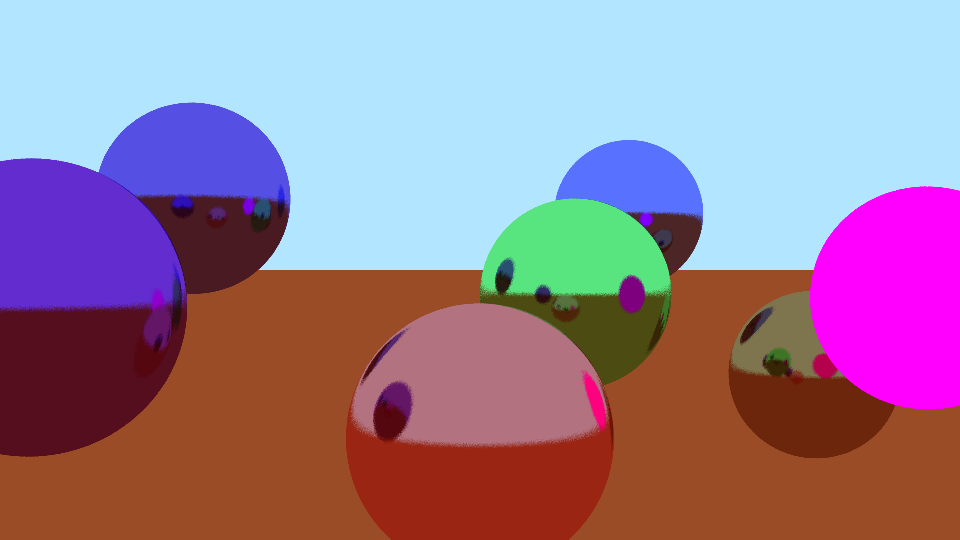
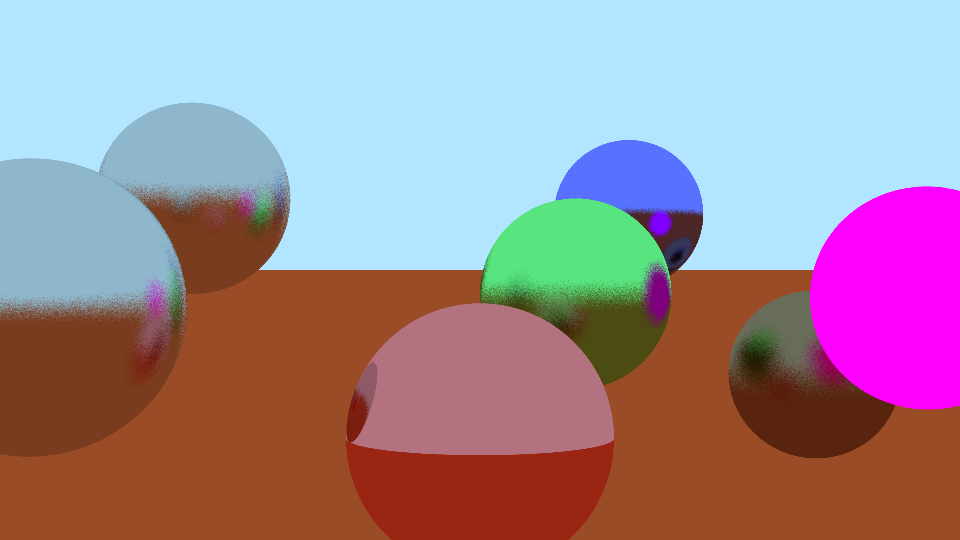
Adding basic materials

diff --git a/RayTracerLib/GPURenderer.cpp b/RayTracerLib/GPURenderer.cpp
@@ -227,22 +227,23 @@ VkResult GPURenderer::CreateHeadlessVulkanInstance(VkInstance & instance)
     createInfo.sType = VK_STRUCTURE_TYPE_INSTANCE_CREATE_INFO;
     createInfo.pApplicationInfo = &applicationInfo;
 
-#if ENABLE_SHADER_PRINTF
-    createInfo.enabledLayerCount = static_cast<uint32_t>(requiredInstanceLayers.size());
-    createInfo.ppEnabledLayerNames = requiredInstanceLayers.data();
-    createInfo.enabledExtensionCount = static_cast<uint32_t>(requiredInstanceExtensions.size());
-    createInfo.ppEnabledExtensionNames = requiredInstanceExtensions.data();
+    if (GPUDebugEnabled)
+    {
+        createInfo.enabledLayerCount = static_cast<uint32_t>(requiredInstanceLayers.size());
+        createInfo.ppEnabledLayerNames = requiredInstanceLayers.data();
+        createInfo.enabledExtensionCount = static_cast<uint32_t>(requiredInstanceExtensions.size());
+        createInfo.ppEnabledExtensionNames = requiredInstanceExtensions.data();
 
-    VkValidationFeatureEnableEXT enabled = VK_VALIDATION_FEATURE_ENABLE_DEBUG_PRINTF_EXT;
-    VkValidationFeaturesEXT features = {};
-    features.sType = VK_STRUCTURE_TYPE_VALIDATION_FEATURES_EXT;
-    features.disabledValidationFeatureCount = 0;
-    features.enabledValidationFeatureCount = 1;
-    features.pDisabledValidationFeatures = nullptr;
-    features.pEnabledValidationFeatures = &enabled;
+        VkValidationFeatureEnableEXT enabled = VK_VALIDATION_FEATURE_ENABLE_DEBUG_PRINTF_EXT;
+        VkValidationFeaturesEXT features = {};
+        features.sType = VK_STRUCTURE_TYPE_VALIDATION_FEATURES_EXT;
+        features.disabledValidationFeatureCount = 0;
+        features.enabledValidationFeatureCount = 1;
+        features.pDisabledValidationFeatures = nullptr;
+        features.pEnabledValidationFeatures = &enabled;
 
-    createInfo.pNext = &features;
-#endif
+        createInfo.pNext = &features;
+    }
 
     result =  vkCreateInstance(&createInfo, nullptr, &instance);
     return result;
@@ -321,7 +322,7 @@ VkResult GPURenderer::CreateDevice(VkPhysicalDevice physicalDevice, uint32_t que
     return vkCreateDevice(physicalDevice, &deviceCreateInfo, 0, &device);
 }
 
-bool GPURenderer::Render(const Camera& camera, unsigned int samples, const std::unique_ptr<IScene> &scene, std::unique_ptr<IImage> &out_image)
+void GPURenderer::Render(const Camera& camera, unsigned int samples, const std::unique_ptr<IScene> &scene, std::unique_ptr<IImage> &out_image)
 {
     auto time = std::chrono::high_resolution_clock::now();
     std::chrono::duration<double, std::milli> cpuTime;
@@ -335,21 +336,22 @@ do \
 
     if (!VerifyInstanceLayers())
     {
-        return false;
+        return;
     }
 
     if (!VerifyInstanceExtensions())
     {
-        return false;
+        return;
     }
 
     VkInstance instance = nullptr;
     EXIT_ON_BAD_RESULT(CreateHeadlessVulkanInstance(instance));
 
-#if ENABLE_SHADER_PRINTF
     VkDebugUtilsMessengerEXT debugMessenger = {};
-    EXIT_ON_BAD_RESULT(CreateDebugMessenger(instance, &debugMessenger));
-#endif
+    if (GPUDebugEnabled)
+    {
+        EXIT_ON_BAD_RESULT(CreateDebugMessenger(instance, &debugMessenger));
+    }
 
     PRINT_TIME("\t[SETUP]: Create headless vulkan instance");
 
@@ -359,7 +361,7 @@ do \
 
     if (0 == physicalDeviceCount)
     {
-        return false;
+        return;
     }
 
     PRINT_TIME("\t[SETUP]: Enumerate devices");
@@ -474,11 +476,10 @@ do \
     
     PRINT_TIME("\t[TEARDOWN]: Unmap memory");
 
-#if ENABLE_SHADER_PRINTF
-    DestroyDebugMessenger(instance, debugMessenger);
-#endif
-
-	return true;
+    if (GPUDebugEnabled)
+    {
+        DestroyDebugMessenger(instance, debugMessenger);
+    }
 }
 
 #undef EXIT_ON_BAD_RESULT

diff --git a/include/PresetScenes.h b/include/PresetScenes.h
@@ -4,6 +4,9 @@
 #include <Camera.h>
 #include <Scene.h>
 #include <Material.h>
+#include <EmissiveBSDF.h>
+#include <GlossyBSDF.h>
+#include <DiffuseBSDF.h>
 #include <Sphere.h>
 
 namespace RayTracer
@@ -28,23 +31,19 @@ namespace RayTracer
         // Build a scene to render
         Scene *scene = new Scene();
 
-        scene->AddMaterial(new Material(RandomColor(), RandomRoughness(0.0f, 0.3f), false));
-        scene->AddMaterial(new Material(RandomColor(), RandomRoughness(0.0f, 0.3f), false));
-
-        scene->AddMaterial(new Material(Color(1.0f, 0.5f, 0.5f, 1.0f), RandomRoughness(0.0f, 0.3f), false));
-        scene->AddMaterial(new Material(Color(0.5f, 1.0f, 0.5f, 1.0f), RandomRoughness(0.0f, 0.3f), false));
-        scene->AddMaterial(new Material(Color(0.5f, 0.5f, 1.0f, 1.0f), RandomRoughness(0.0f, 0.3f), false));
-
-        scene->AddMaterial(new Material(RandomColor(), RandomRoughness(0.0f, 0.3f), false));
-        scene->AddMaterial(new Material(Color(1.0f, 0.0f, 1.0f, 1.0f), 1.0f, true));
+        scene->AddMaterial(new GlossyBSDF(Color(0.8f, 0.8f, 0.8f, 1.0f), 0.2f));
+        scene->AddMaterial(new GlossyBSDF(Color(0.8f, 0.8f, 0.8f, 1.0f), 0.3f));
+        scene->AddMaterial(new DiffuseBSDF(Color(1.0f, 0.5f, 0.5f, 1.0f), RandomRoughness(0.0f, 0.3f)));
+        scene->AddMaterial(new DiffuseBSDF(Color(0.5f, 1.0f, 0.5f, 1.0f), RandomRoughness(0.0f, 0.3f)));
+        scene->AddMaterial(new DiffuseBSDF(Color(0.5f, 0.5f, 1.0f, 1.0f), RandomRoughness(0.0f, 0.3f)));
+        scene->AddMaterial(new DiffuseBSDF(RandomColor(), RandomRoughness(0.0f, 0.3f)));
+        scene->AddMaterial(new EmissiveBSDF(Color(1.0f, 0.0f, 1.0f, 1.0f)));
 
         scene->AddObject(new Sphere(Vector3<float>(  9,    0,    -3),   1.0f,   0));
         scene->AddObject(new Sphere(Vector3<float>( 14,    1,    -3),   1.0f,   1));
-
         scene->AddObject(new Sphere(Vector3<float>( 10,   -1,     0),   1.0f,   2));
         scene->AddObject(new Sphere(Vector3<float>( 14,    0,     1),   1.0f,   3));
         scene->AddObject(new Sphere(Vector3<float>( 18,    1,     2),   1.0f,   4));
-
         scene->AddObject(new Sphere(Vector3<float>( 16,   -1,     4),   1.0f,   5));
         scene->AddObject(new Sphere(Vector3<float>( 12,    0,     4),   1.0f,   6));
 
@@ -61,7 +60,7 @@ namespace RayTracer
 
         // Build a scene to render
         Scene *scene = new Scene(); 
-        scene->AddMaterial(new Material(Color(1.0f, 1.0f, 1.0f, 1.0f), 0.1f, false));
+        scene->AddMaterial(new DiffuseBSDF(Color(1.0f, 1.0f, 1.0f, 1.0f), 0.1f));
 
         for (float i = 0; i < sphere_array_count; i++)
         {

diff --git a/RayTracerLib/GlossyBSDF.cpp b/RayTracerLib/GlossyBSDF.cpp
@@ -1,0 +1,34 @@
+#include "GlossyBSDF.h"
+#include "Ray.h"
+
+using RayTracer::Color;
+using RayTracer::Vector3;
+
+const Color RayTracer::GlossyBSDF::SurfaceColor() const
+{
+	return color;
+}
+
+float RayTracer::GlossyBSDF::Roughness() const
+{
+	return roughness;
+}
+
+void RayTracer::GlossyBSDF::GetResultantRay(std::unique_ptr<IIntersection> &intersection,
+	const std::unique_ptr<IRay> &incoming_ray, std::unique_ptr<IRay> &outgoing_ray) const
+{
+	Vector3<float> in_direction = incoming_ray->Direction().Normalize();
+	Vector3<float> intersection_normal = intersection->Normal().Normalize();
+
+	Vector3<float> out_reflection = in_direction - intersection_normal * 2 * in_direction.Dot(intersection_normal);
+	Vector3<float> out_reflection_offset = out_reflection + (Vector3<float>::RandomInUnitSphere() * roughness);
+
+	if (out_reflection_offset.Dot(intersection_normal) <= 0)
+	{
+		outgoing_ray = std::make_unique<Ray>(intersection->Location(), out_reflection);
+	}
+	else
+	{
+		outgoing_ray = std::make_unique<Ray>(intersection->Location(), out_reflection_offset);
+	}
+}

diff --git a/RayTracer/main.cpp b/RayTracer/main.cpp
@@ -14,13 +14,9 @@
 #include <PresetScenes.h>
 
 using RayTracer::IScene;
-using RayTracer::Vector3;
 using RayTracer::Camera;
-using RayTracer::Scene;
 using RayTracer::CPURenderer;
 using RayTracer::GPURenderer;
-using RayTracer::Sphere;
-using RayTracer::Material;
 using RayTracer::ImageResolution;
 using RayTracer::IImage;
 using RayTracer::Color;
@@ -108,19 +104,6 @@ static void parse_command_line_arguments(int argc, char** argv, CommandLineArgum
     arguments.RenderCPU = render_cpu;
     arguments.RenderGPU = render_gpu;
     arguments.GPUDebugEnabled = gpu_debug;
-}
-
-static Color RandomColor()
-{
-    float random1 = (float)rand() / RAND_MAX;
-    float random2 = (float)rand() / RAND_MAX;
-    float random3 = (float)rand() / RAND_MAX;
-    return Color(random1, random2, random3, 1.0f);
-}
-
-static float RandomRoughness(float min, float max)
-{
-    return RayTracer::Lerp<float>(min, max, (float)rand() / RAND_MAX);
 }
 
 static bool write_png_file(const std::string &file_name, const std::vector<std::vector<png_byte>> &color_values)

diff --git a/RayTracerLib/CPURenderer.cpp b/RayTracerLib/CPURenderer.cpp
@@ -48,7 +48,7 @@ static void TraceRay(std::unique_ptr<IRay> &ray, const std::unique_ptr<IScene> &
 
 	/* Keep going while an intersection happens
 	* and the bounces is less than max bounce count */
-	do
+	while (nullptr != traced_ray)
 	{
 		at_least_one_intersected = false;
 		float min_depth = std::numeric_limits<float>::infinity();
@@ -97,11 +97,10 @@ static void TraceRay(std::unique_ptr<IRay> &ray, const std::unique_ptr<IScene> &
 			ray_color *= world->AmbientColor();
 			break;
 		}
-	} 
-	while (nullptr != traced_ray);
+	}
 }
 
-bool CPURenderer::Render(const Camera &camera, unsigned int samples, const std::unique_ptr<IScene> &scene, std::unique_ptr<IImage> &out_image)
+void CPURenderer::Render(const Camera &camera, unsigned int samples, const std::unique_ptr<IScene> &scene, std::unique_ptr<IImage> &out_image)
 {
 	auto time = std::chrono::high_resolution_clock::now();
 	std::chrono::duration<double, std::milli> cpuTime;
@@ -137,6 +136,4 @@ do \
 	}
 
 	PRINT_TIME("[RENDER TIME]");
-
-	return true;
 }

diff --git a/include/IMaterial.h b/include/IMaterial.h
@@ -1,6 +1,6 @@
 #pragma once
 
-#include "Vectors.h"
+#include "Vector3.h"
 #include "Color.h"
 #include "IIntersectable.h"
 
@@ -9,8 +9,8 @@ namespace RayTracer
 	class IMaterial
 	{
 	public:
-		virtual const Color SurfaceColor() const = 0;
-		virtual float Roughness() const = 0;
+		virtual const Color SurfaceColor() const = 0; // TODO: This should be part of GetResultantRay
+		virtual float Roughness() const = 0; // TODO: This is not applicable to all materials
 		virtual void GetResultantRay(std::unique_ptr<IIntersection> &intersection, const std::unique_ptr<IRay> &incoming_ray,
 			std::unique_ptr<IRay> &outgoing_ray) const = 0;
 	};

diff --git a/RayTracerLib/DiffuseBSDF.cpp b/RayTracerLib/DiffuseBSDF.cpp
@@ -1,0 +1,21 @@
+#include "DiffuseBSDF.h"
+#include "Ray.h"
+
+using RayTracer::Color;
+
+const Color RayTracer::DiffuseBSDF::SurfaceColor() const
+{
+	return color;
+}
+
+float RayTracer::DiffuseBSDF::Roughness() const
+{
+	return roughness;
+}
+
+void RayTracer::DiffuseBSDF::GetResultantRay(std::unique_ptr<IIntersection> &intersection,
+	const std::unique_ptr<IRay> &incoming_ray, std::unique_ptr<IRay> &outgoing_ray) const
+{
+	Vector3<float> out_direction = intersection->Normal().Normalize() + (Vector3<float>::RandomInUnitSphere() * roughness);
+	outgoing_ray = std::make_unique<Ray>(intersection->Location(), out_direction);
+}

diff --git a/include/GlossyBSDF.h b/include/GlossyBSDF.h
@@ -1,0 +1,22 @@
+#pragma once
+
+#include "IMaterial.h"
+#include "Color.h"
+
+namespace RayTracer
+{
+	class GlossyBSDF : public IMaterial
+	{
+	public:
+		GlossyBSDF(const Color &color, float roughness) : color(color), roughness(roughness) {}
+		// Inherited via IMaterial
+		virtual const Color SurfaceColor() const override;
+		virtual float Roughness() const override;
+		virtual void GetResultantRay(std::unique_ptr<IIntersection> &intersection,
+			const std::unique_ptr<IRay> &incoming_ray, std::unique_ptr<IRay> &outgoing_ray) const override;
+	private:
+		Color color;
+		float roughness;
+	};
+}
+

diff --git a/include/Vector3.h b/include/Vector3.h
@@ -91,6 +91,22 @@ namespace RayTracer
 			return Vector3<T>(x_lerp, y_lerp, z_lerp).Normalize();
 		}
 
+		// Based on https://raytracing.github.io/books/RayTracingInOneWeekend.html#diffusematerials/asimplediffusematerial
+		static Vector3<T> RandomInUnitSphere()
+		{
+			while (true)
+			{
+				T x = (T)rand() / RAND_MAX * 2 - 1;
+				T y = (T)rand() / RAND_MAX * 2 - 1;
+				T z = (T)rand() / RAND_MAX * 2 - 1;
+				Vector3<T> vec(x, y, z);
+				if (vec.MagnitudeSquared() < 1)
+				{
+					return vec;
+				}
+			}
+		}
+
 	private:
 		mutable bool CalculatedNormalized;
 		mutable T XNormalized;

diff --git a/include/DiffuseBSDF.h b/include/DiffuseBSDF.h
@@ -1,0 +1,21 @@
+#pragma once
+
+#include "IMaterial.h"
+
+namespace RayTracer
+{
+	class DiffuseBSDF : public IMaterial
+	{
+	public:
+		DiffuseBSDF(const Color &color, float roughness) : color(color), roughness(roughness) {}
+		// Inherited via IMaterial
+		virtual const Color SurfaceColor() const override;
+		virtual float Roughness() const override;
+		virtual void GetResultantRay(std::unique_ptr<IIntersection> &intersection,
+			const std::unique_ptr<IRay> &incoming_ray, std::unique_ptr<IRay> &outgoing_ray) const override;
+	private:
+		Color color;
+		float roughness;
+	};
+}
+

diff --git a/include/EmissiveBSDF.h b/include/EmissiveBSDF.h
@@ -1,0 +1,20 @@
+#pragma once
+
+#include "IMaterial.h"
+
+namespace RayTracer
+{
+	class EmissiveBSDF : public IMaterial
+	{
+	public:
+		EmissiveBSDF(const Color &color) : color(color) {}
+		// Inherited via IMaterial
+		virtual const Color SurfaceColor() const override;
+		virtual float Roughness() const override;
+		virtual void GetResultantRay(std::unique_ptr<IIntersection> &intersection,
+			const std::unique_ptr<IRay> &incoming_ray, std::unique_ptr<IRay> &outgoing_ray) const override;
+	private:
+		Color color;
+	};
+}
+

diff --git a/include/PrincipledBSDF.h b/include/PrincipledBSDF.h
@@ -1,0 +1,17 @@
+#pragma once
+
+#include "IMaterial.h"
+
+namespace RayTracer
+{
+	class PrincipledBSDF : public IMaterial
+	{
+	public:
+		// Inherited via IMaterial
+		virtual const Color SurfaceColor() const override;
+		virtual float Roughness() const override;
+		virtual void GetResultantRay(std::unique_ptr<IIntersection> &intersection, 
+			const std::unique_ptr<IRay> &incoming_ray, std::unique_ptr<IRay> &outgoing_ray) const override;
+	};
+}
+
